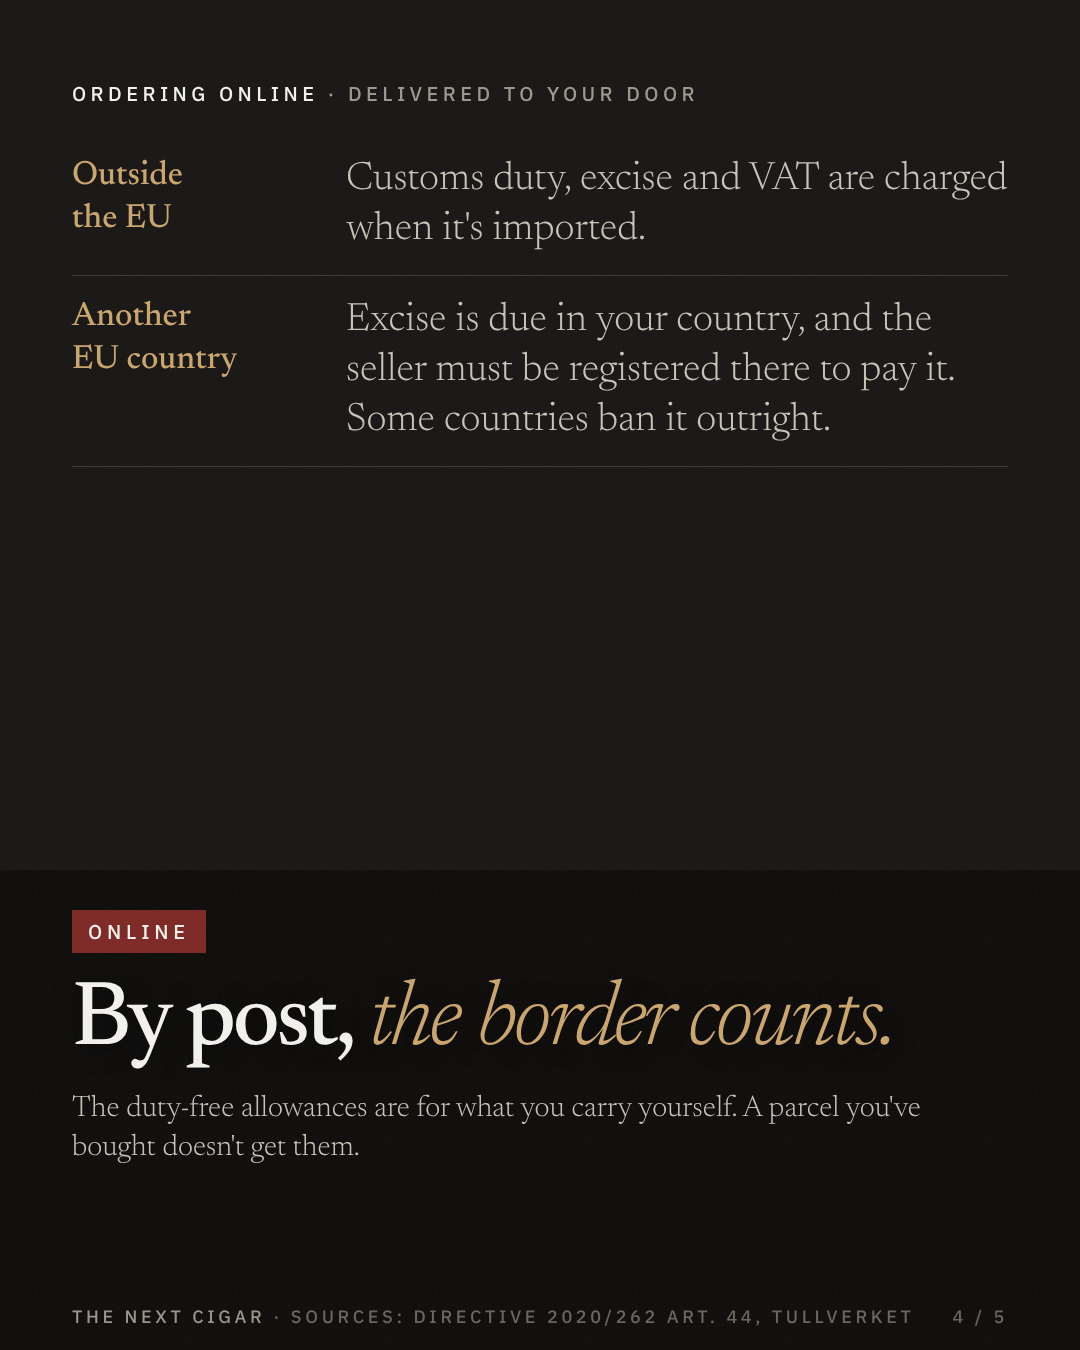
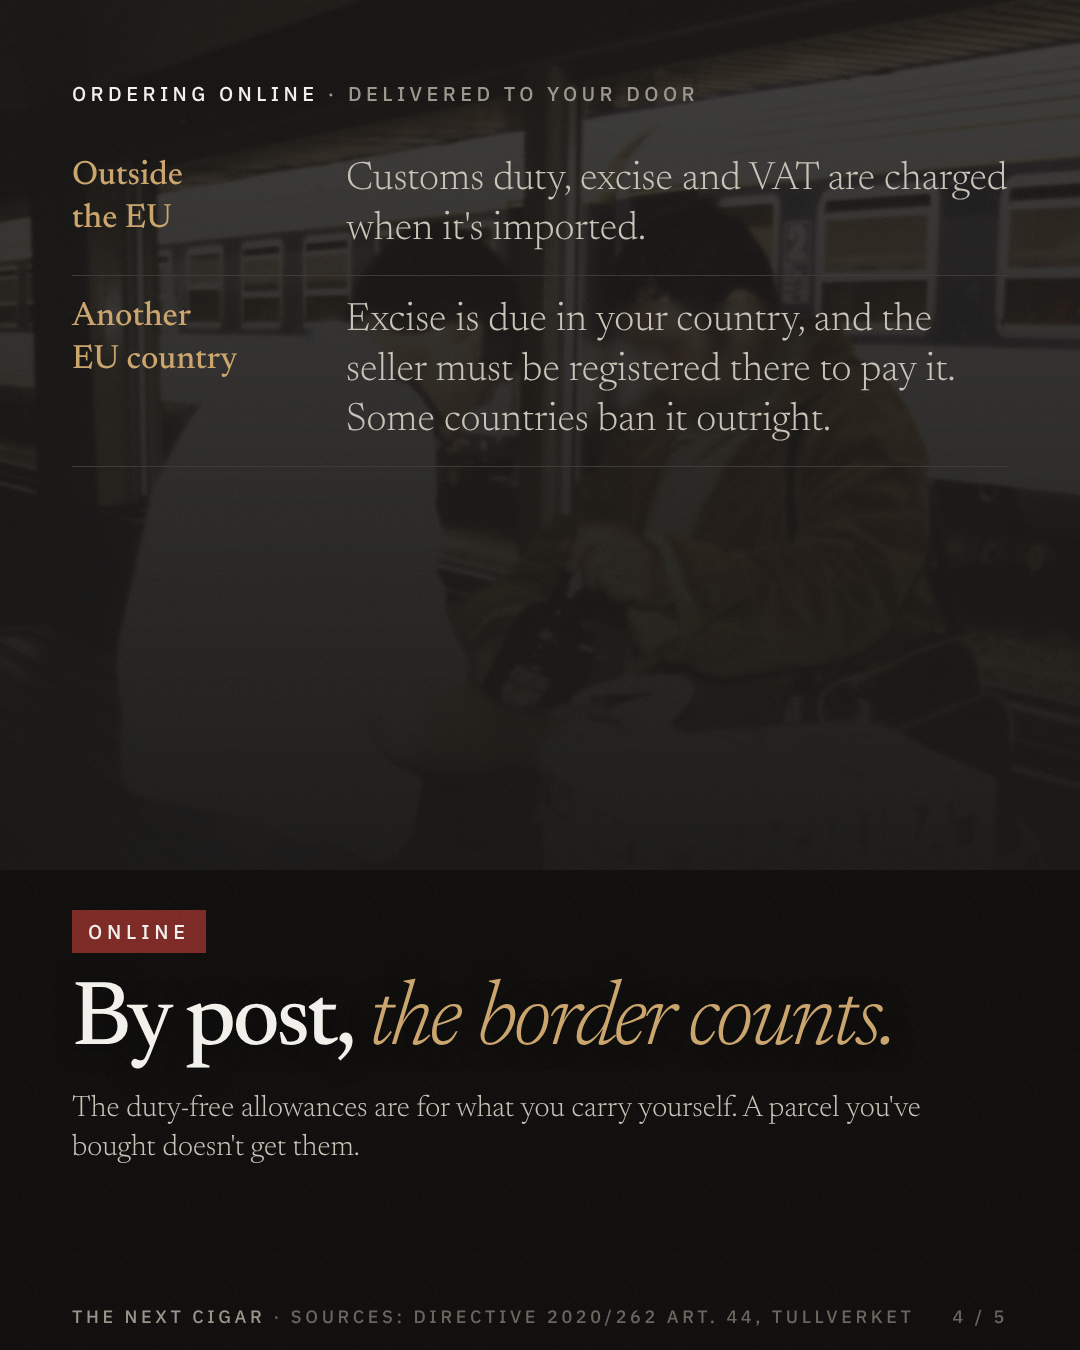
Carousel 11: real Commons photo backgrounds on every slide, credits in caption
Claude-Session: https://claude.ai/code/session_01NDc9TrKsSQw4dbaGwkoFWp

Changed region(s): [[0.5194, 0.0311, 1.0, 0.2178], [0.1222, 0.0933, 0.4889, 0.28], [0.0, 0.1556, 0.0306, 0.2178]]

diff --git a/docs/social/carousels/11-border-tax-explainer/source.html b/docs/social/carousels/11-border-tax-explainer/source.html
@@ -18,6 +18,11 @@ html,body{margin:0;background:#000}
 .band p{margin:24px 0 0;font-size:30px;line-height:1.3;color:#C7C2B6;font-weight:300}
 .meta{position:absolute;left:72px;right:72px;bottom:22px;display:flex;justify-content:space-between;font-family:'IBM Plex Sans';font-size:18px;letter-spacing:.2em;text-transform:uppercase;color:#6A665E;z-index:6}
 .meta b{color:#9A958A;font-weight:500}
+.ph{position:absolute;left:0;top:400px;width:1080px;height:560px;background-size:cover;background-position:center 45%}
+.ph:after{content:"";position:absolute;inset:0;background:linear-gradient(180deg,#151412 0,rgba(21,20,18,0) 22%,rgba(11,10,9,0) 60%,#0B0A09 100%)}
+.bgp{position:absolute;inset:0;background-size:cover;background-position:center;opacity:.22;filter:saturate(.7)}
+.bgp:after{content:"";position:absolute;inset:0;background:linear-gradient(180deg,rgba(21,20,18,.25),#151412 72%)}
+.top{z-index:3}
 /* cover: the paper */
 .paper{position:absolute;left:0;top:0;width:1080px;height:1000px;overflow:hidden;background:#000}
 .paper img{position:absolute;left:40px;top:60px;width:1000px;box-shadow:0 30px 80px rgba(0,0,0,.7);transform:rotate(-1.5deg);transform-origin:top left}
@@ -43,6 +48,7 @@ td small{display:block;font-family:'IBM Plex Sans';font-size:15px;letter-spacing
 <body>
 
 <div class="slide">
+ <div class="ph" style="background-image:url(img/customs-channels.jpg)"></div>
  <div class="grain"></div>
  <div class="top"><div class="k"><b>Tax · explainer</b> · cigars crossing the EU border</div>
   <div class="hero"><span class="ox">+26</span><span style="color:#6A665E;font-weight:300">%</span><small>The standard EU customs duty on cigars, before excise and VAT. Lower or zero for some countries of origin.</small></div></div>
@@ -51,6 +57,7 @@ td small{display:block;font-family:'IBM Plex Sans';font-size:15px;letter-spacing
 </div>
 
 <div class="slide">
+ <div class="bgp" style="background-image:url(img/customs-1909.jpg)"></div>
  <div class="grain"></div>
  <div class="top"><div class="k"><b>The three charges</b> · in the order they're added</div>
   <table class="big">
@@ -63,6 +70,7 @@ td small{display:block;font-family:'IBM Plex Sans';font-size:15px;letter-spacing
 </div>
 
 <div class="slide">
+ <div class="bgp" style="background-image:url(img/baggage-reclaim.jpg)"></div>
  <div class="grain"></div>
  <div class="top"><div class="k"><b>Travelling</b> · cigars in your own luggage</div>
   <table class="big">
@@ -74,6 +82,7 @@ td small{display:block;font-family:'IBM Plex Sans';font-size:15px;letter-spacing
 </div>
 
 <div class="slide">
+ <div class="bgp" style="background-image:url(img/parcel-check.jpg)"></div>
  <div class="grain"></div>
  <div class="top"><div class="k"><b>Ordering online</b> · delivered to your door</div>
   <table class="big">
@@ -85,6 +94,7 @@ td small{display:block;font-family:'IBM Plex Sans';font-size:15px;letter-spacing
 </div>
 
 <div class="slide">
+ <div class="bgp" style="background-image:url(img/arlanda.jpg)"></div>
  <div class="grain"></div>
  <div class="top"><div class="k"><b>The allowance calculator</b> · for travellers</div>
   <div class="hero" style="font-size:96px;letter-spacing:-.03em;line-height:1">What are the limits <i style="font-weight:300;color:#C9A36A">when you travel?</i></div>

diff --git a/docs/social/carousels/11-border-tax-explainer/caption.md b/docs/social/carousels/11-border-tax-explainer/caption.md
@@ -13,6 +13,8 @@ What you carry in your own luggage is treated differently from what arrives by p
 
 Our allowance calculator, for the EU, the UK, Switzerland and Norway, is at the link in bio. Not legal or tax advice: check your own country's rules. We don't sell tobacco.
 
+Photos via Wikimedia Commons: Ralf Roletschek (CC BY 3.0), Per Fredrik Röding (CC BY 4.0), Otto Karikoski (CC BY-SA 4.0), Nathalie Kotlok (public domain), Calle Eklund/V-wolf (CC BY-SA 3.0).
+
 ## First comment
 
 #travel #customs #eutravel
@@ -26,3 +28,11 @@ Our allowance calculator, for the EU, the UK, Switzerland and Norway, is at the 
 
 ## Double-check
 Independent check on 11 Nov 2026 (fresh agent, TARIC, Tullverket, Tulli and the directives opened). Slides 01–05 matched source.html. Fixed before posting: 26% is the standard (third-country) rate, not universal (0% CARIFORUM/Central America/Mexico, 9.1% GSP); excise can also be per kilo; the 50-cigar allowance has age and trip conditions (Sweden 18+, residents need a flight or 20+ hours away; Finland none for short land/sea trips); Directive 2008/118 replaced by 2020/262 Art. 32; slide 5 headline "without paying more?" read as cost-saving advice and became "What are the limits when you travel?"; #thenextcigar dropped. Open for the site, not the post: the allowance calculator's Swedish tax per cigar (Tullverket shows 2.19 SEK, Skatteverket's 2026 rate is 1.83 SEK).
+
+## Photos (Wikimedia Commons)
+- 01 customs-channels.jpg: "Customs at London Stansted Airport perspective+crop", Ralf Roletschek, CC BY 3.0
+- 02 customs-1909.jpg: "At the swedish customs in 1909", Per Fredrik Röding, CC BY 4.0
+- 03 baggage-reclaim.jpg: "Kuusamo Airport baggage reclaim 2017-11-23", Otto Karikoski, CC BY-SA 4.0
+- 04 parcel-check.jpg: "Contrôle des bagages à la douane de la gare d'Hendaye (MédiHAL 682072)", Nathalie Kotlok, public domain
+- 05 arlanda.jpg: "Stockholm-Arlanda Airport Terminal 5 c", Calle Eklund/V-wolf, CC BY-SA 3.0
+No cigars, brands or logos in any photo.
